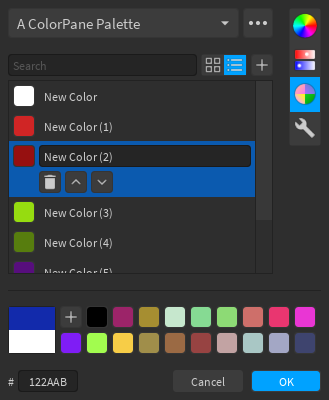
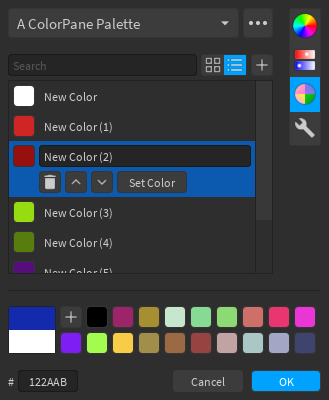
Set Color buttons for palette lists

Changed region(s): [[0.3343, 0.42, 0.5775, 0.48]]

diff --git a/docs/user-guide/color-editor.md b/docs/user-guide/color-editor.md
@@ -38,7 +38,7 @@ The overflow menu (the ![overflow menu](../images/overflow-menu.png) button) has
 
 The grid layout (pictured above) is the default layout, and allows for quick access to colors. Clicking on a color will select it, which then allows you to set the current color, remove the color, change its position in the palette, or rename it.
 
-The list layout (pictured below) is useful for palettes where color names are important. In this layout, clicking on a color (meaning the box that shows the color) will set the current color, and clicking anywhere else inside the cell will select it.
+The list layout (pictured below) is useful for palettes where color names are important.
 
 ![The list layout for palettes](../images/palettes-list.png)
 

diff --git a/docs/changelog.md b/docs/changelog.md
@@ -1,5 +1,8 @@
 ## [Unreleased]
 
+### Added
+- Added a dedicated "Set Color" button for colors in the palette list layout
+
 ### Changed
 - Promises from the API no longer cancel if the user closes the prompt, they will now instead reject with `PromptError.PromptCancelled`
 - For `GradientPromptOptions`, the type of `InitialGradient` and the value of `GradientType` are no longer required to match
